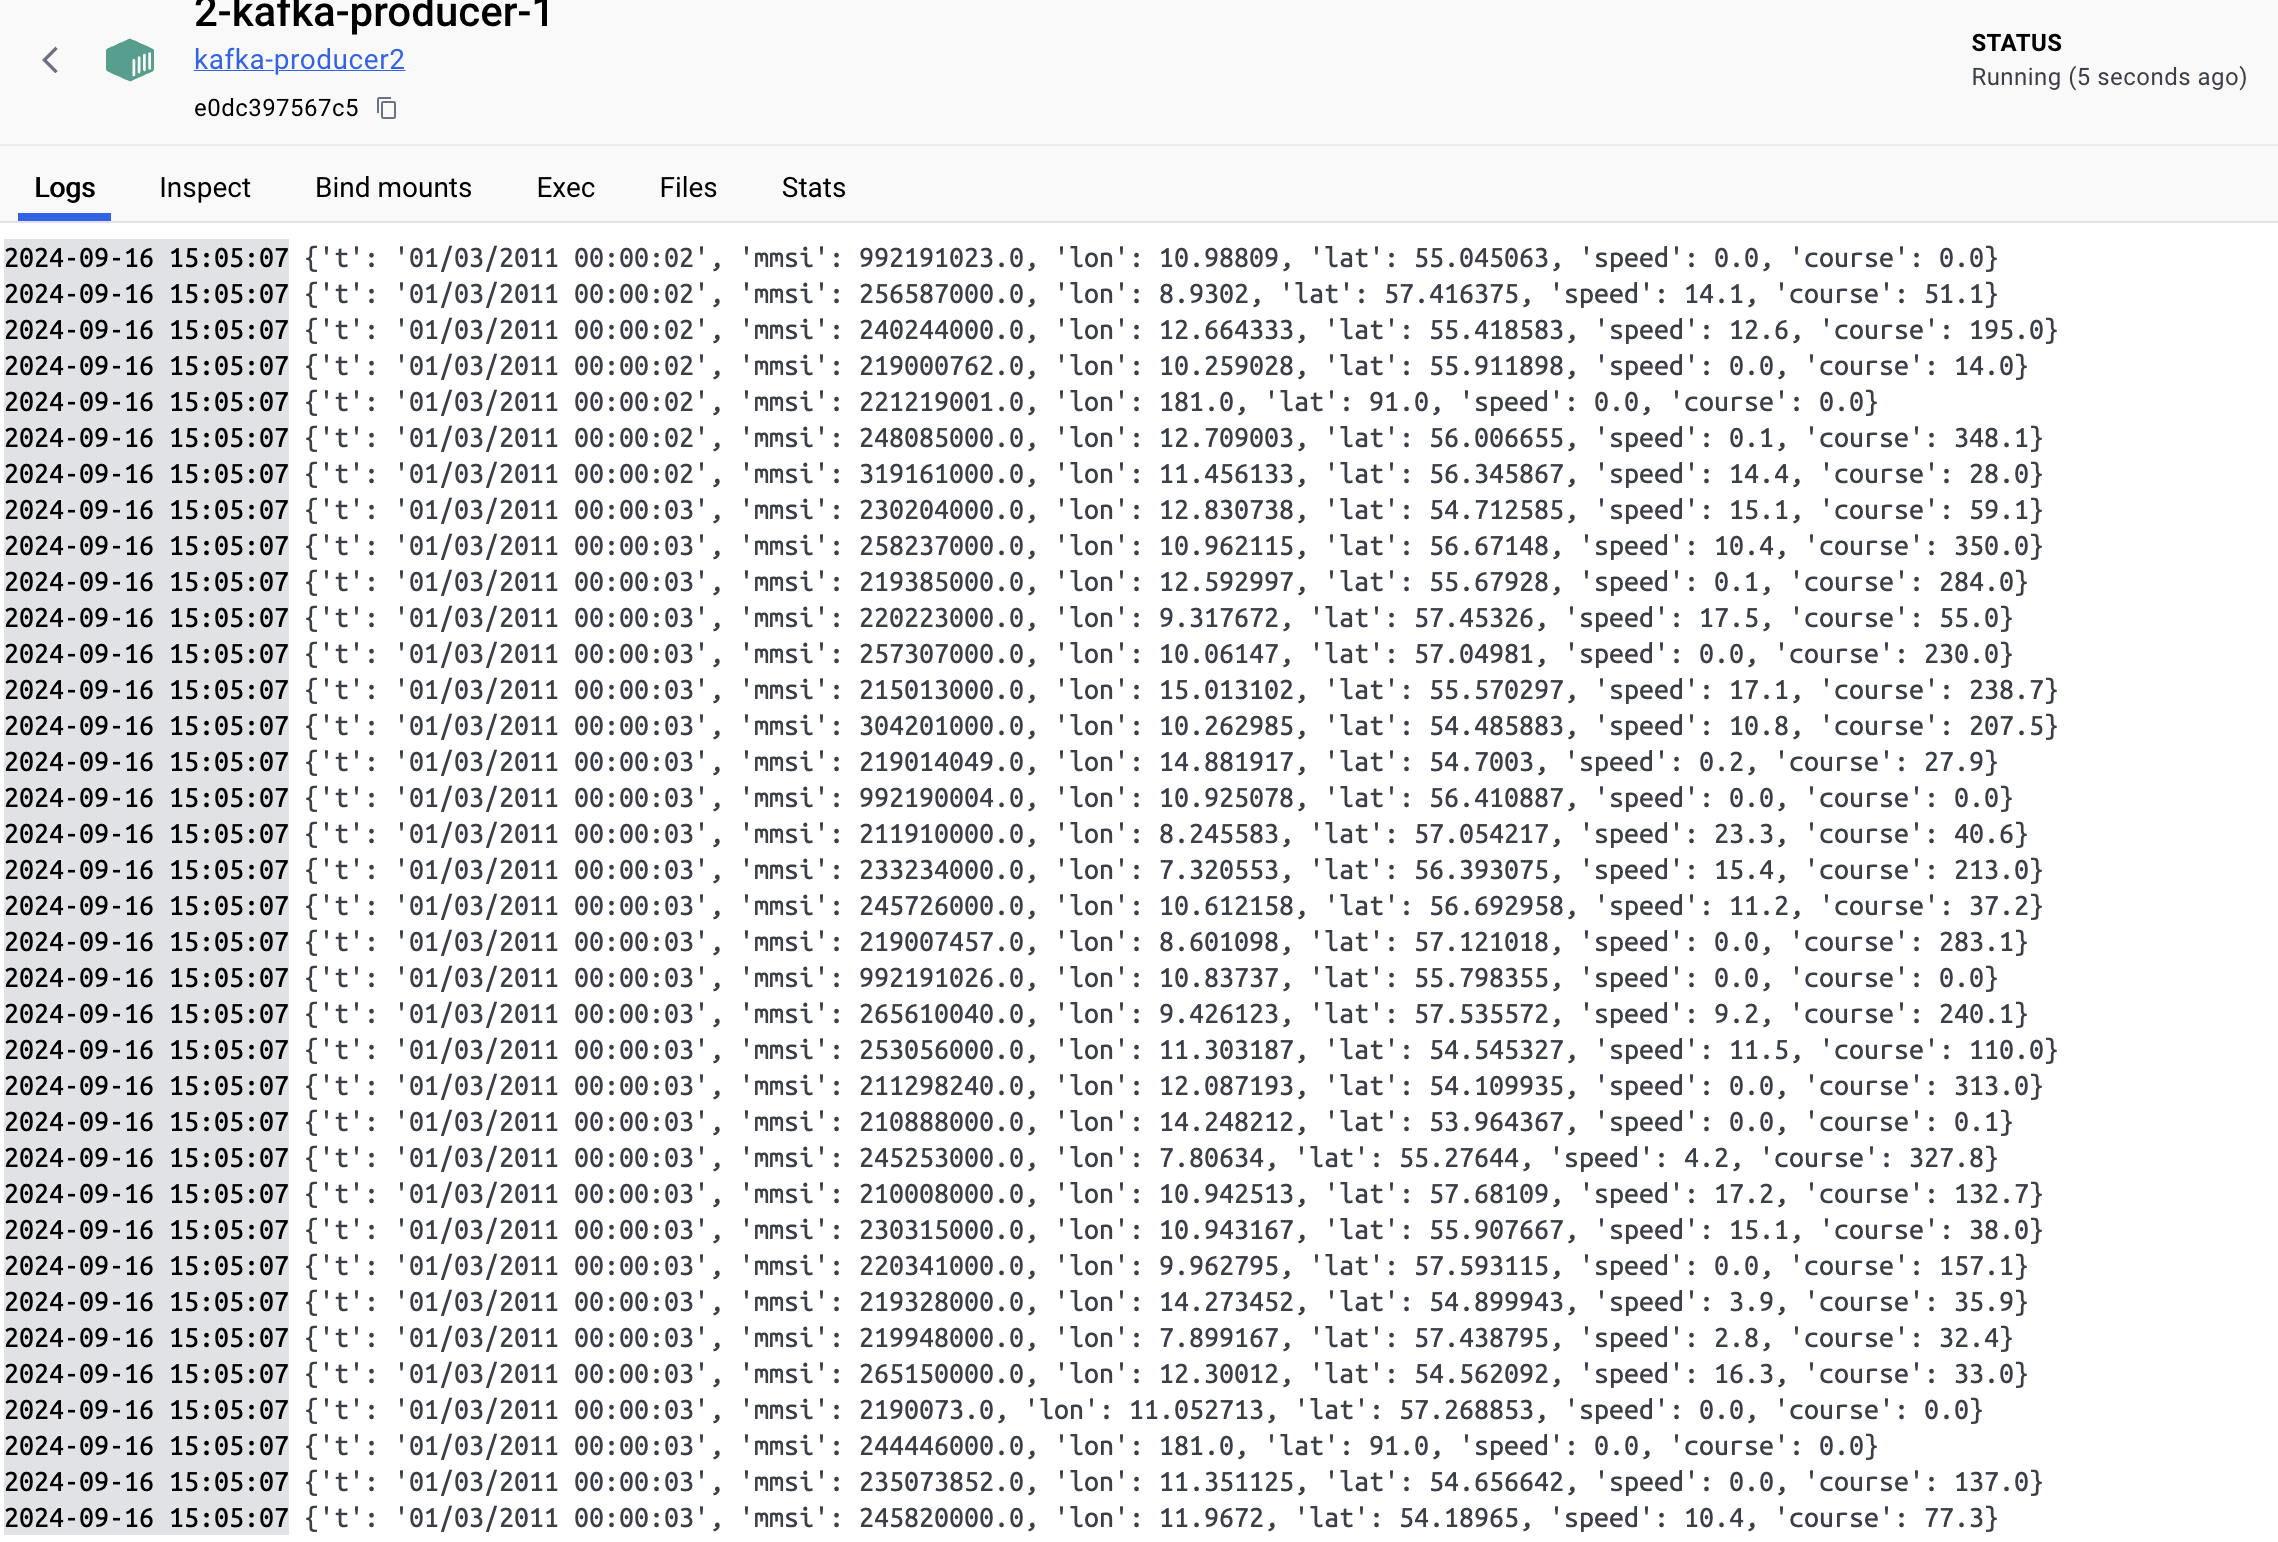
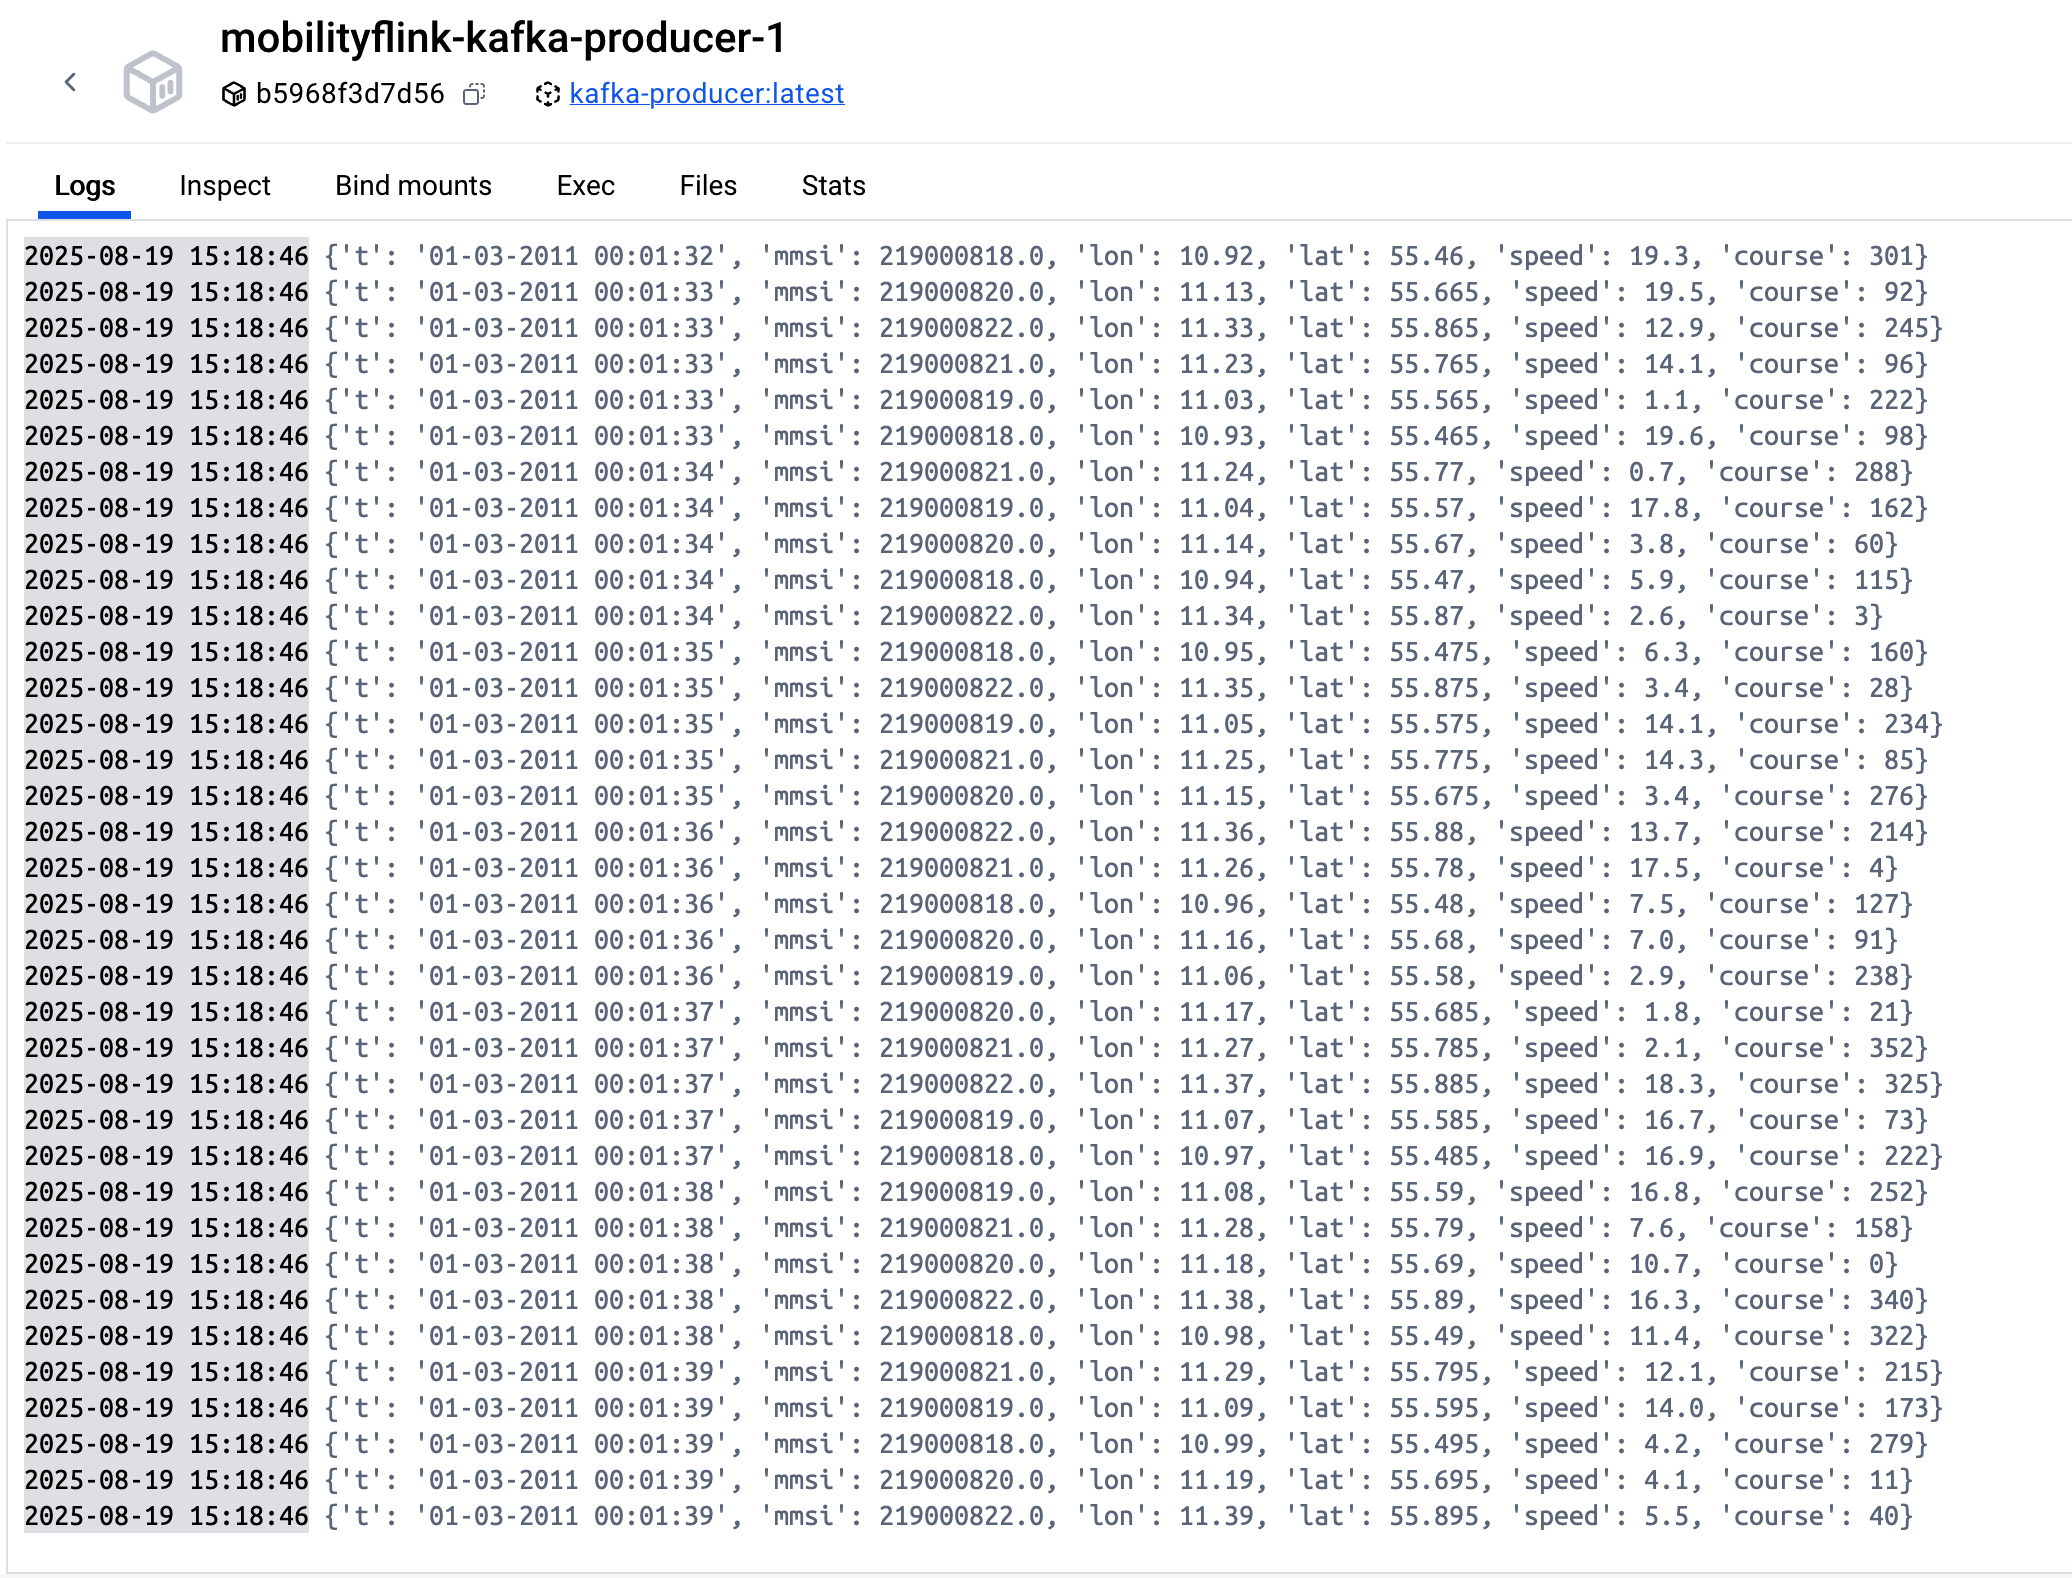
adjust kafka to new version

Changed region(s): [[0.0, 0.0, 1.0, 1.0], [0.8649, 0.0, 0.9884, 0.0623], [0.4015, 0.0934, 0.4324, 0.1245]]

diff --git a/flink-processor/src/main/java/aisdata/Main.java b/flink-processor/src/main/java/aisdata/Main.java
@@ -63,14 +63,14 @@ public class Main {
             //STBox stbx = new STBox("SRID=4326;STBOX XT(((3.3615, 53.964367),(16.505853, 59.24544)),[2011-01-03 00:00:00,2011-01-03 00:00:21])");
 
             Properties properties = new Properties();
-            properties.setProperty("bootstrap.servers", "kafka:9092");
+            properties.setProperty("bootstrap.servers", "kafka:29092");
             properties.setProperty("group.id", "flink_consumer");
             properties.setProperty(ConsumerConfig.KEY_DESERIALIZER_CLASS_CONFIG, StringDeserializer.class.getName());
             properties.setProperty(ConsumerConfig.VALUE_DESERIALIZER_CLASS_CONFIG, StringDeserializer.class.getName());
             properties.setProperty("auto.offset.reset", "earliest");
 
             KafkaSource<String> kafkaSource = KafkaSource.<String>builder()
-                .setBootstrapServers("kafka:9092")
+                .setBootstrapServers("kafka:29092")
                 .setGroupId("flink_consumer")
                 .setTopics("aisdata")
                 .setStartingOffsets(OffsetsInitializer.earliest())

diff --git a/kafka-producer/python-producer.py b/kafka-producer/python-producer.py
@@ -4,7 +4,7 @@ import pandas as pd
 
 
 
-kafka_nodes = "kafka:9092"
+kafka_nodes = "kafka:29092"
 myTopic = "aisdata"
 
 def gen_data():

diff --git a/README.md b/README.md
@@ -41,14 +41,14 @@ JMEOS (JMEOS jar file is already include in flink-processor/jar. To install a ne
 We should create a docker image for Kafka, Flink, and MobilityDB. To do this, we go to each directory and create each image. Finally, we go to the main directory and compose the docker container.
 
 cd postgres <br />
-docker build -t postgres6 . <br />
+docker build -t postgres . <br />
 cd .. <br />
 cd kafka-producer <br />
-docker build -t kafka-producer6 . <br />
+docker build -t kafka-producer . <br />
 cd .. <br />
 cd flink-processor <br />
 mvn clean package  <br />
-docker build -t flink-processor6 . <br />
+docker build -t flink-processor . <br />
 cd .. <br />
 docker-compose up -d <br />
 
